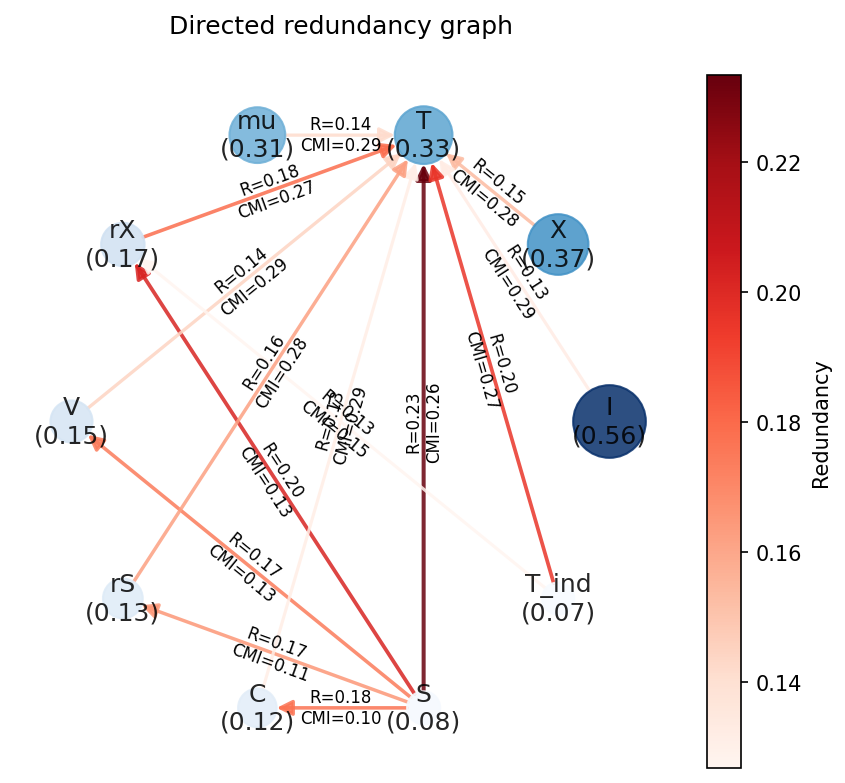
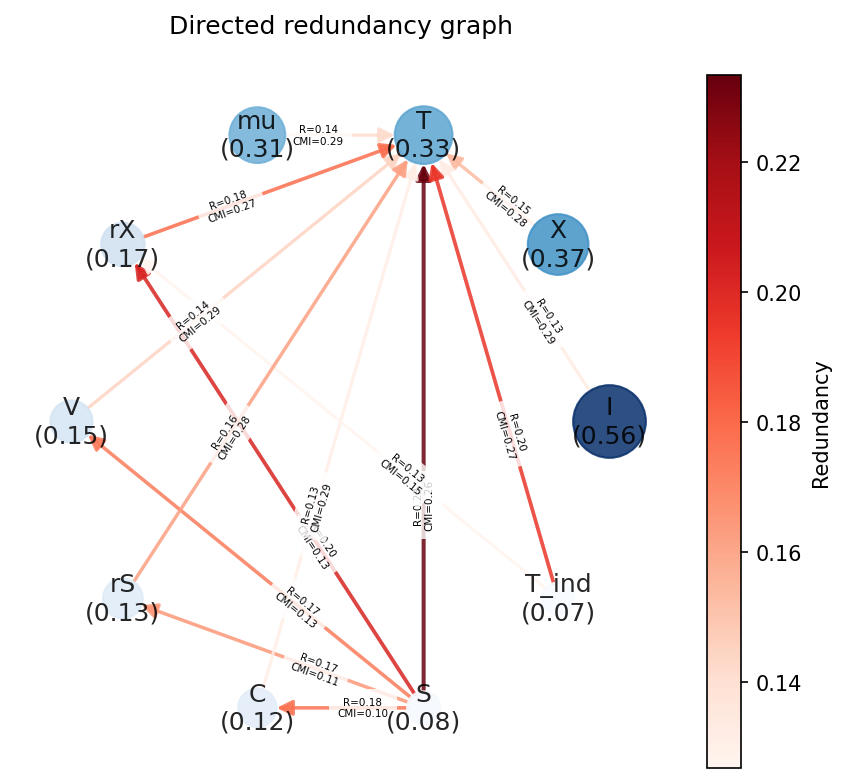
Filter methods Final update
Additional methods were included for features filter function

diff --git a/src/utils/filter.py b/src/utils/filter.py
@@ -12,70 +12,74 @@ from src.utils.plots_filter import (
 
 import numpy as np
 
-def mrmr_selection(fs_df, redundancy_graph=None, mi_feature_matrix=None, n_features=5, lambda_1=1.0, lambda_2=1.0, method='cmi'): # Peng, Long y Ding (2005)
+def mrmr_selection(fr_df, redundancy_graph=None, cmi=None, mi=None, n_features=5, method='cmi_based'): 
     """
-    Select features using a max-relevance min-redundancy criterion
-    based on Mutual Information (MI) and redundancy.
-
-    Parameters
-    ----------
-    fs_df : pd.DataFrame
-        DataFrame containing feature selection results.
-
-    redundancy_graph : nx.DiGraph
-        Directed graph representing redundancy between features.
+    Perform Minimum Redundancy Maximum Relevance (mRMR) feature selection.
+    method="cmi_based"      # proposed method based on conditional mutual information
+    method="cmim"           # Fleuret 2004
+    method="mrmr_mid"       # Peng et al. 2005
+    method="mrmr_miq"       # Peng et al. 2005
     """
 
     # Normalize mutual information
-    fs_df = fs_df.copy()
-
-    mi_min = fs_df["mutual_info"].min()
-    mi_max = fs_df["mutual_info"].max()
-
-    fs_df["mi_norm"] = ( (fs_df["mutual_info"] - mi_min) / (mi_max - mi_min + 1e-10) )
+    fr_df = fr_df.copy()
 
     selected = []
     selection_info = []
 
-    first_feature = ( fs_df.sort_values( "mutual_info", ascending=False ) .iloc[0]["feature"] )
+    first_feature = ( fr_df.sort_values( "mutual_info", ascending=False ) .iloc[0]["feature"] )
 
     selected.append(first_feature)
 
-    first_relevance = ( fs_df.loc[ fs_df["feature"] == first_feature, "mi_norm" ].iloc[0] )
+    first_relevance = ( fr_df.loc[ fr_df["feature"] == first_feature, "mutual_info" ].iloc[0] )
 
     selection_info.append({
         "feature": first_feature,
         "relevance": first_relevance,
         "redundancy": 0.0,
-        "score": lambda_1 * first_relevance
+        "score": first_relevance, 
+        "method": method
     })
 
-    remaining = [ f for f in fs_df["feature"] if f not in selected]
+    remaining = [ f for f in fr_df["feature"] if f not in selected]
 
-    while len(selected) < min(n_features, len(fs_df)):
+    while len(selected) < min(n_features, len(fr_df)):
 
         candidate_info = {}
         for feat in remaining:
-            relevance = ( fs_df.loc[ fs_df["feature"] == feat, "mi_norm" ].iloc[0] )
+            relevance = ( fr_df.loc[ fr_df["feature"] == feat, "mutual_info" ].iloc[0] )
 
-            if method == 'cmi':
+            if method == 'cmi_based':
                 redundancies = []
                 for sel in selected:
                     if redundancy_graph.has_edge(sel, feat):
                         redundancies.append(redundancy_graph[sel][feat]["redundancy"])
                 redundancy = (np.mean(redundancies) if redundancies else 0.0)
+                score = relevance * (1 - redundancy)
 
-            elif method == 'peng':
-                redundancies = []
+            elif method == "cmim":
+                cmi_values = []
                 for sel in selected:
-                    mi_ff_max = np.nanmax(mi_feature_matrix.values)
-                    mi_ff = mi_feature_matrix.loc[sel, feat] / (mi_ff_max + 1e-10)
-                    redundancies.append(mi_ff)
-                redundancy = (np.mean(redundancies) if redundancies else 0.0)
+                    cmi_values.append(cmi.loc[sel, feat])
+                score = np.min(cmi_values) if cmi_values else relevance
+                redundancy = np.nan
+
+            elif method == 'peng_mid':
+                mi_values = []
+                for sel in selected:
+                    mi_values.append(mi.loc[sel, feat])
+                redundancy = (np.mean(mi_values) if mi_values else 0.0)
+                score = relevance - redundancy
+
+            elif method == 'peng_miq':
+                mi_values = []
+                for sel in selected:
+                    mi_values.append(mi.loc[sel, feat])
+                redundancy = (np.mean(mi_values) if mi_values else 0.0)
+                score = relevance / (redundancy + 1e-10)
+
             else:
                 raise ValueError(f"Unknown method '{method}'" "Choose 'cmi' or 'peng'")
-
-            score = (lambda_1 * relevance - lambda_2 * redundancy)
 
             candidate_info[feat] = {
                 "relevance": relevance,
@@ -83,10 +87,13 @@ def mrmr_selection(fs_df, redundancy_graph=None, mi_feature_matrix=None, n_featu
                 "score": score
             }
 
-
         best_feature = max(candidate_info, key=lambda f: candidate_info[f]["score"])
         selected.append(best_feature)
-        selection_info.append({ "feature": best_feature, **candidate_info[best_feature] })
+        selection_info.append({
+            "feature": best_feature,
+            **candidate_info[best_feature], 
+            "method": method
+        })
         remaining.remove(best_feature)
 
     return pd.DataFrame(selection_info)
@@ -96,31 +103,32 @@ def filter_feature_selection(df, X_vars, y_var, out_dir):
 
     # print(f"Starting filter feature selection analysis ... \n")
 
-    fs = (
+    fs_results = (
         spearman_fs(df, X_vars, y_var)
         .merge(eta_fs(df, X_vars, y_var), on="feature")
         .merge(dcor_fs(df, X_vars, y_var), on="feature")
         .merge(mi_fs(df, X_vars, y_var), on="feature")
     )
 
-    fs.sort_values("mutual_info", ascending=False)
+    fs_results.sort_values("mutual_info", ascending=False)
 
-    fs_dict = fs.set_index("feature").to_dict(orient="index")
+    fs_dict = fs_results.set_index("feature").to_dict(orient="index")
 
     out_dir = Path(out_dir)
     out_dir.mkdir(parents=True, exist_ok=True)
 
     save_yaml(fs_dict,out_dir/"feature.yaml")
 
-    plot_fs_bars(fs, out_dir)
-    plot_fs_heatmap(fs, out_dir)
+    plot_fs_bars(fs_results, out_dir)
+    plot_fs_heatmap(fs_results, out_dir)
 
+    mi_matrix = mi_features_all_vs_all(df, X_vars)
     cmi_matrix = cmi_all_vs_all(df, X_vars, y_var)
-    
+
     plot_cmi_comparison(cmi_matrix, X_vars, out_dir)
 
-    G = build_redundancy_graph(fs, cmi_matrix)
-    plot_redundancy_graph(G, fs, cmi_matrix, out_dir)
+    G = build_redundancy_graph(fs_results, cmi_matrix)
+    plot_redundancy_graph(G, fs_results, cmi_matrix, out_dir)
 
     # to_remove = []
 
@@ -130,7 +138,7 @@ def filter_feature_selection(df, X_vars, y_var, out_dir):
 
     # # Nodes without strong redundancy
     # core = [n for n in G.nodes if G.in_degree(n) > G.out_degree(n)]
-    return { "fs": fs, "cmi": cmi_matrix, "graph": G }
+    return { "feature_relevance_df": fs_results, "cmi": cmi_matrix, "mi": mi_matrix, "graph": G }
 
 # ----------------Spearman---------------------------
 def spearman_fs(df, X_vars, y_var):
@@ -224,6 +232,24 @@ def cmi_all_vs_all(df, features, target):
                 )
 
     return cmi_matrix
+
+def mi_features_all_vs_all(df, features):
+    """
+    Rows: reference feature
+    Columns: evaluated feature
+    Values: I(feature_i ; feature_j)
+    """
+
+    mi_matrix = pd.DataFrame(index=features, columns=features, dtype=float)
+    for i, fi in enumerate(features):
+        for j, fj in enumerate(features[i:], i):
+            if i == j:
+                mi_matrix.loc[fi, fj] = np.nan
+            else:
+                mi_val = mutual_info_regression(df[[fj]].values, df[fi].values, random_state=42)[0]
+                mi_matrix.loc[fi, fj] = mi_val
+                mi_matrix.loc[fj, fi] = mi_val
+    return mi_matrix
 
 
 def build_redundancy_graph(fs_df, cmi_matrix, threshold=0.1):

diff --git a/src/workflow/model_analysis/feature_filter.py b/src/workflow/model_analysis/feature_filter.py
@@ -4,7 +4,8 @@ from pathlib import Path
 from src.utils.filter import filter_feature_selection, mrmr_selection
 
 class FeaturesFilterWorkflow:
-    def __init__(self, data_path="data/processed/BR_processed.xlsx", filter_path="results/filtered_features", obj_param=None, ignore_data=None, ignore_features=None):
+    def __init__(self, data_path="data/processed/BR_processed.xlsx", filter_path="results/filtered_features", 
+                 obj_param=None, ignore_data=None, ignore_features=None, method = "cmi_based", n_features=10):
         
         self.data_path = data_path
         self.filter_path = filter_path
@@ -19,6 +20,9 @@ class FeaturesFilterWorkflow:
 
         self.selection_results = {}
         self.selected_features = {}
+
+        self.method = method 
+        self.n_features = n_features
 
     def load_datasets(self):
 
@@ -41,14 +45,15 @@ class FeaturesFilterWorkflow:
             result = filter_feature_selection(self.df, self.features, param, target_dir)
             self.selection_results[param] = result
 
-    def run_mrmr(self, n_features=10):
+    def run_mrmr(self, method, n_features=10):
 
         self.selected_features = {}
         for param in self.obj_param:
-            fs = self.selection_results[param]["fs"]
+            fr_df = self.selection_results[param]["feature_relevance_df"]
+            mi = self.selection_results[param]["mi"]
             cmi = self.selection_results[param]["cmi"]
             graph = self.selection_results[param]["graph"]
-            mrmr_df = mrmr_selection(fs_df=fs, redundancy_graph=graph, mi_feature_matrix=cmi, n_features=n_features)
+            mrmr_df = mrmr_selection(fr_df=fr_df, redundancy_graph=graph, cmi=cmi, mi=mi, n_features=n_features, method=method)
             self.selected_features[param] = mrmr_df
 
         # return self.selected_features
@@ -62,12 +67,12 @@ class FeaturesFilterWorkflow:
             rows.append(temp)
 
         summary = pd.concat( rows, ignore_index=True )
-        summary = summary[ [ "target", "feature", "relevance", "redundancy", "score" ] ] # "rank",
+        summary = summary[ [ "target", "feature", "relevance", "redundancy", "score" , "method"] ] # "rank",
         summary.to_excel( f"{self.filter_path}/mrmr_selected_features.xlsx", index=False, engine="openpyxl" )
 
         return summary
 
-    def run(self, n_features=10):
+    def run(self):
 
         print("Loading datasets...")
         self.load_datasets()
@@ -79,7 +84,7 @@ class FeaturesFilterWorkflow:
         self.compute_relevance()
 
         print("Running mRMR...")
-        self.run_mrmr(n_features=n_features)
+        self.run_mrmr(self.method, self.n_features)
 
         print("Saving results...")
         # summary = self.save_results()

diff --git a/src/utils/plots_filter.py b/src/utils/plots_filter.py
@@ -177,15 +177,18 @@ def plot_redundancy_graph(G, fs_df, cmi_matrix, out_path):
     # ---- Edge labels ----
     edge_labels = {
         (u, v): (f"R={H[u][v]['redundancy']:.2f}\n"
-                  f"CMI={H[u][v]['cmi']:.2f}")
+                f"CMI={H[u][v]['cmi']:.2f}") # \n"
+                #  f"MI={mi_values[v]:.2f}")
         for u, v in H.edges()
     }
 
     nx.draw_networkx_edge_labels(
         H, pos,
         edge_labels=edge_labels,
-        font_size=8,
-        bbox=dict(facecolor='none', edgecolor='none')
+        label_pos=0.35,
+        font_size=5,
+        rotate=True, 
+        bbox=dict(facecolor='white', alpha=0.8, edgecolor='none')
     )
 
     # ---- Colorbar (Redundancy) ----

diff --git a/main.py b/main.py
@@ -73,8 +73,10 @@ def main():
             filter_path=cfg["paths"]["results"]["filtered_features"],
             obj_param=cfg["features_filter"]["objective_parameter"],
             ignore_data=cfg["features_filter"]["ignore_data"], 
-            ignore_features=cfg["features_filter"]["ignore_features"]
-        ).run(n_features=cfg["features_filter"]["n_features"])
+            ignore_features=cfg["features_filter"]["ignore_features"], 
+            method=cfg["features_filter"]["method"], 
+            n_features=cfg["features_filter"]["n_features"]
+        ).run()
 
     # if cfg["workflow"]["hybrid_model_selection"]:
     #     HybridModelSelectionWorkflow().run()
